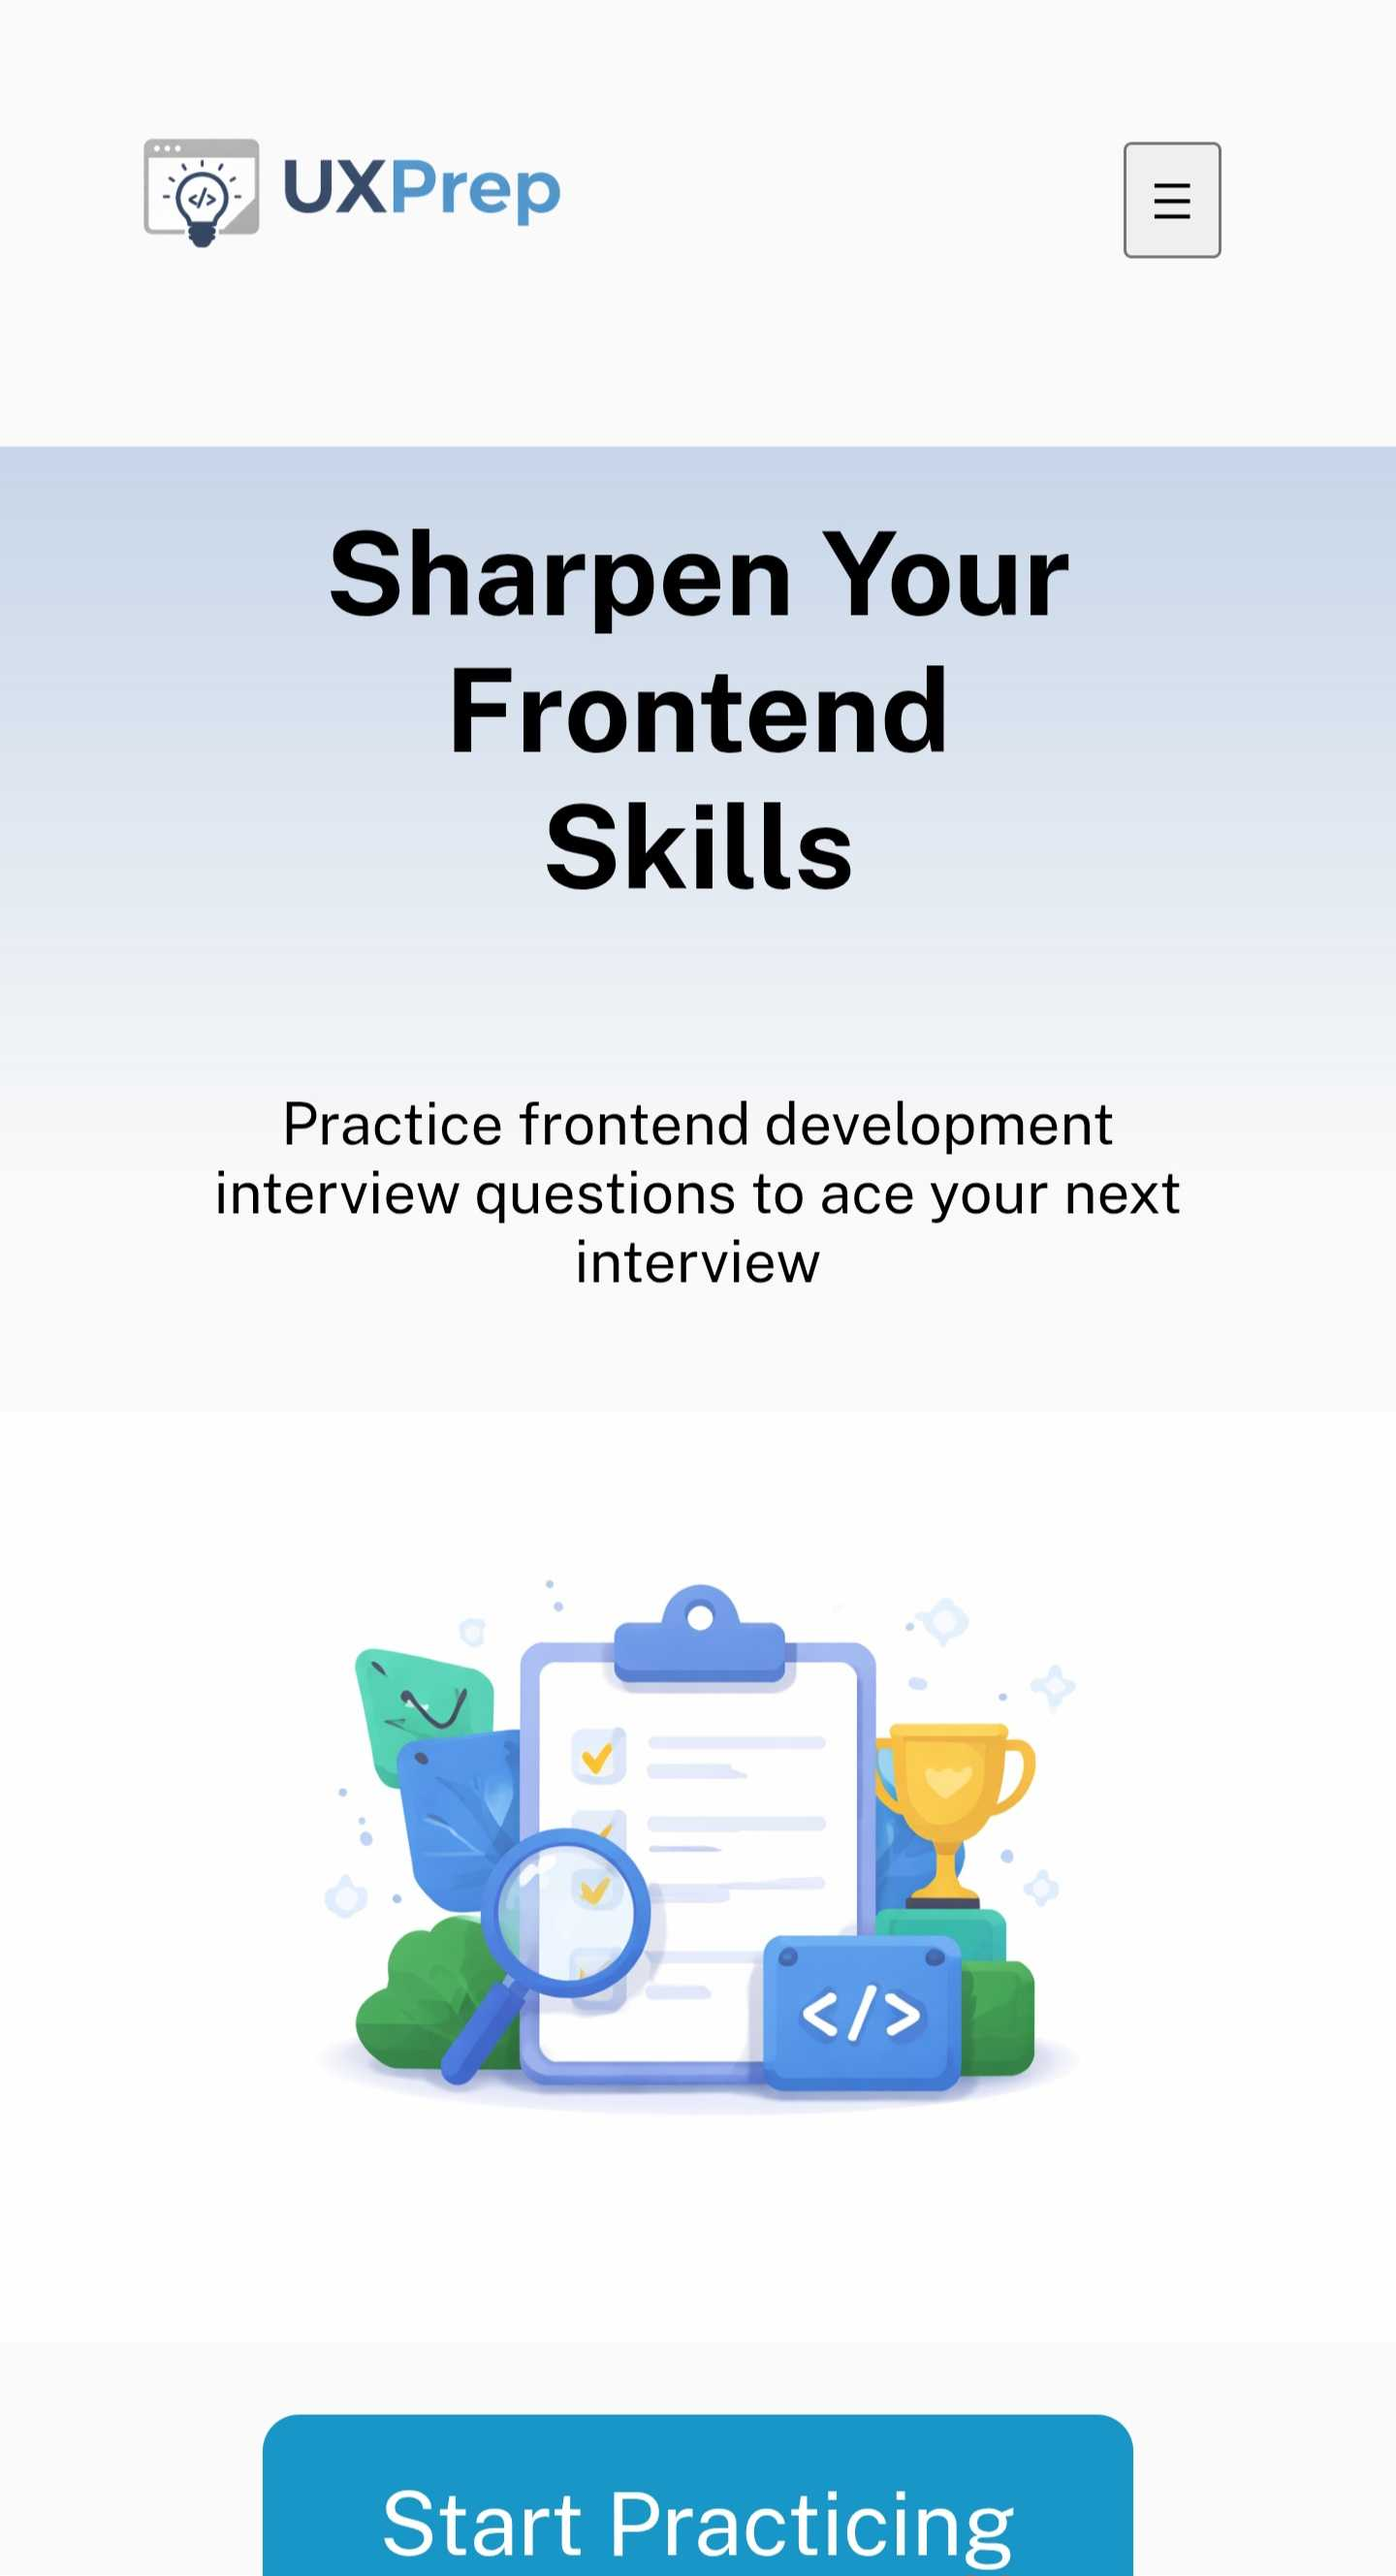
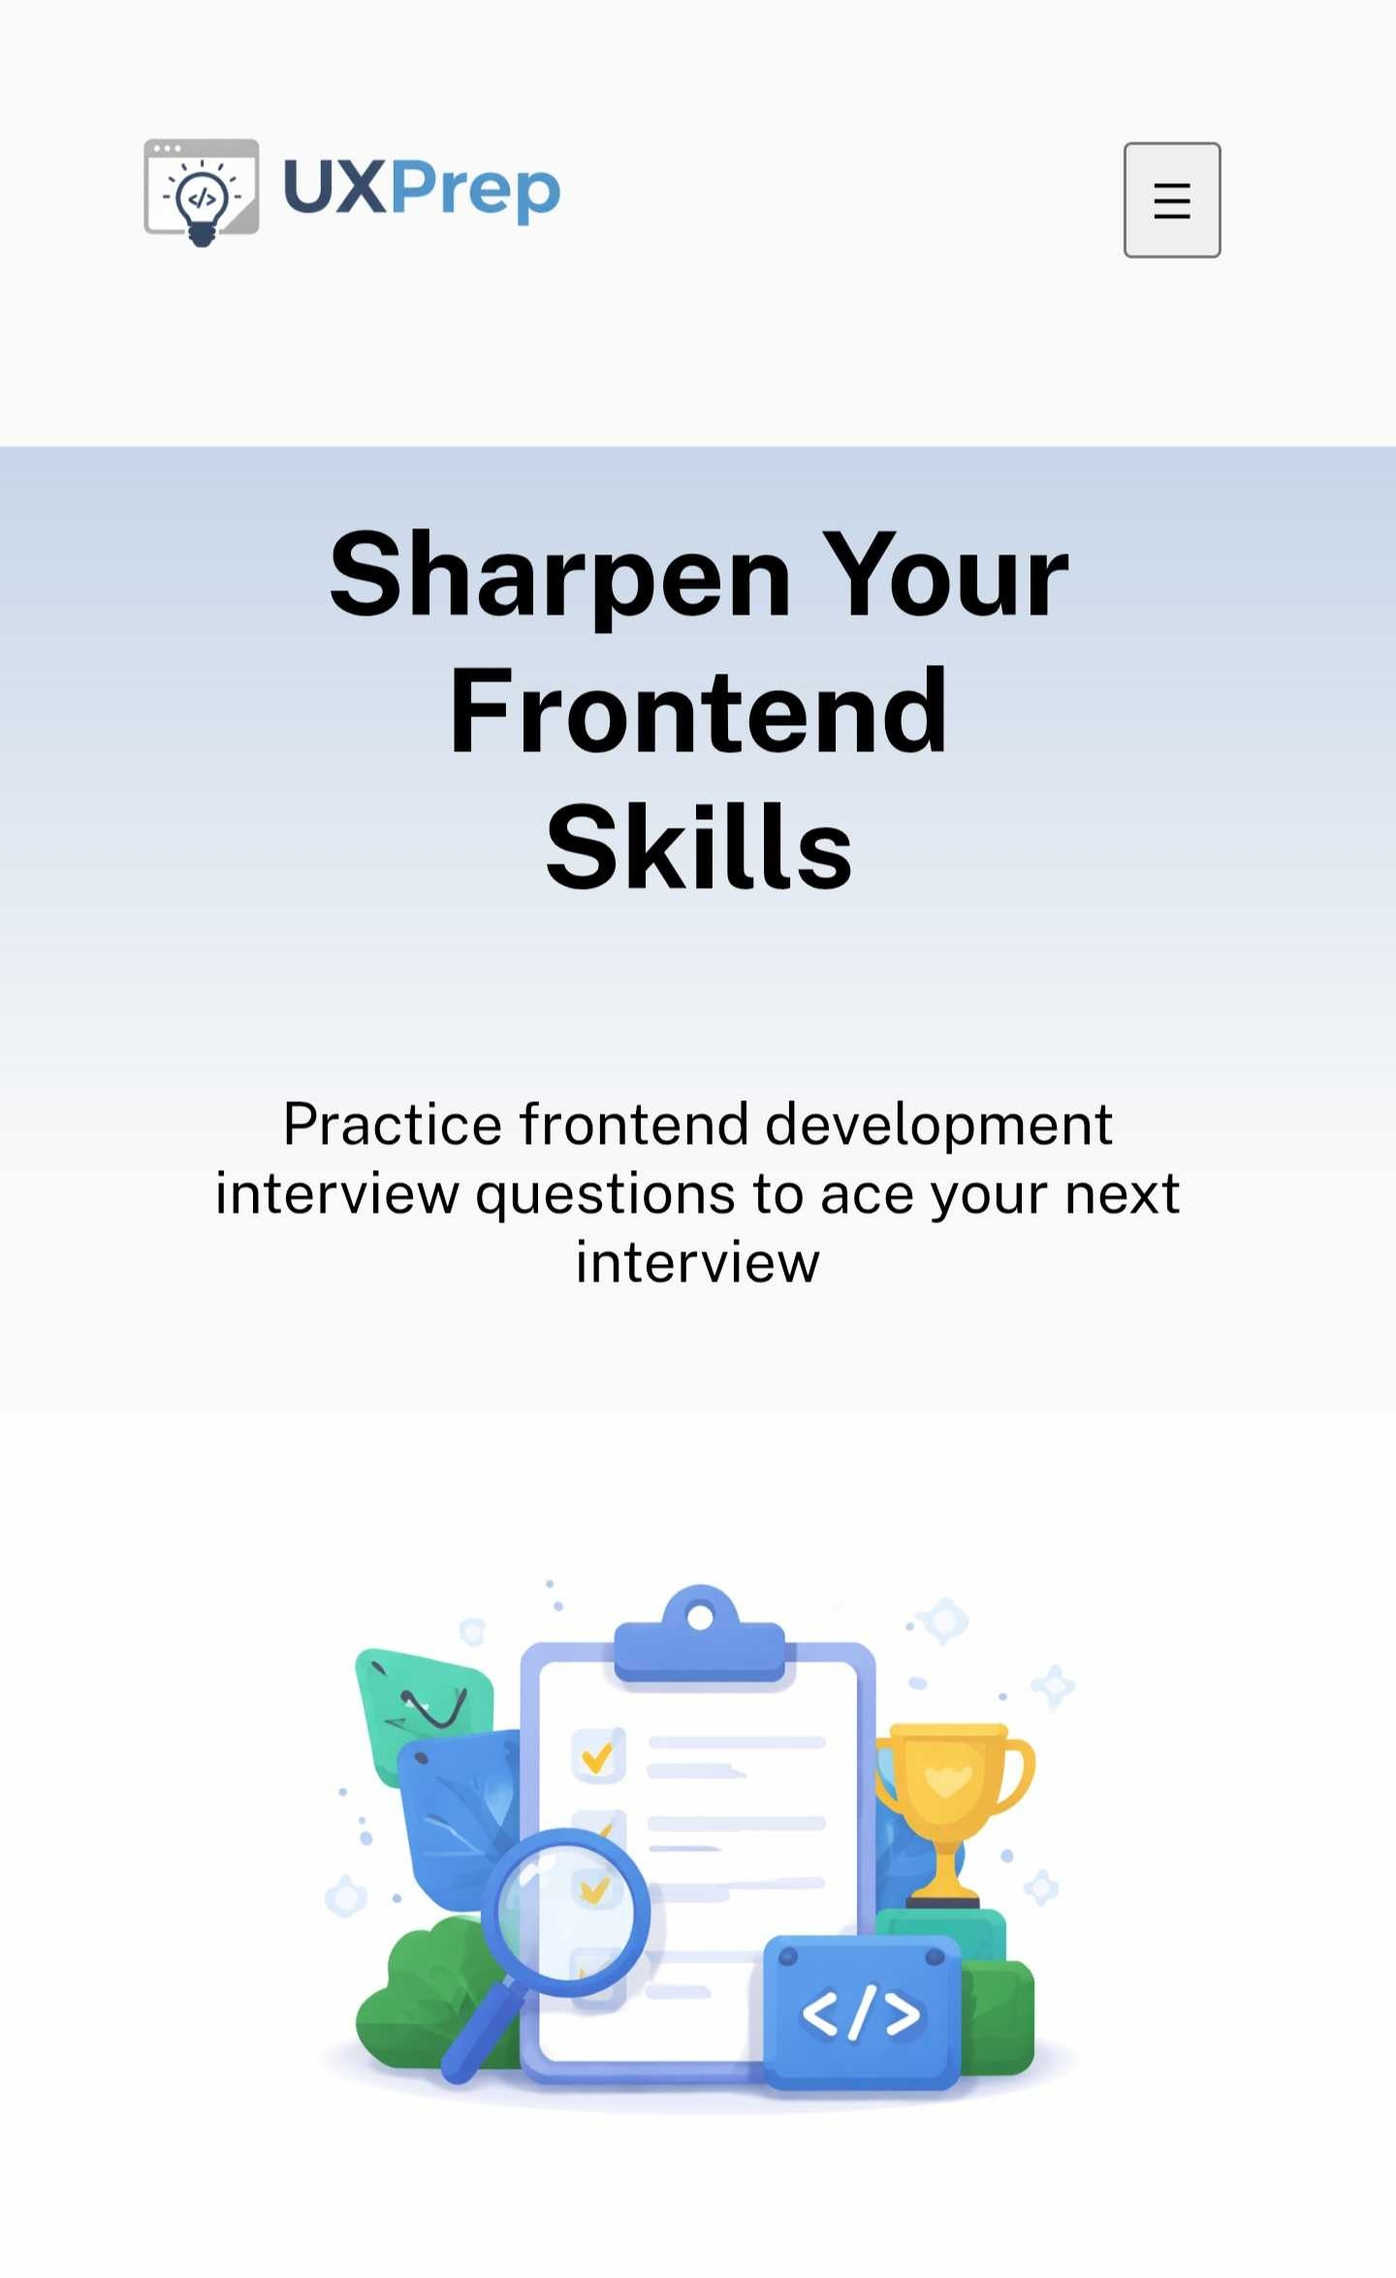
Adjusted some css font sizes and border issues

diff --git a/index.html b/index.html
@@ -20,7 +20,7 @@
                     <ul class="navbar-nav ms-auto text-dark text-center">
                         <li class="nav-item mobile-dropdown-border-item"><a class="nav-link link-dark py-3" href="#skills">Skills</a></li>
                         <li class="nav-item mobile-dropdown-border-item"><a class="nav-link link-dark py-3" href="#projects">Projects</a></li>
-                        <li class="nav-item mobile-dropdown-border-item"><a class="nav-link link-dark py-3" href="#contact">Contact</a></li>
+                        <li class="nav-item "><a class="nav-link link-dark py-3" href="#contact">Contact</a></li>
                     </ul>
                 </div>
             </div>

diff --git a/style.css b/style.css
@@ -1,23 +1,16 @@
 body {
     font-family: sans-serif;
-    font-size: 14px;
+    font-size: 20px;
 }
 
 h4 {
-    font-size: 28px;
+    font-size: 30px;
 }
 
 @media (min-width: 992px) {
     body {
         font-size: 20px;
     }
-    h4 {
-        font-size: 30px;
-    }
-}
-
-.dropdown-bordered-items {
-    border-bottom: 2px solid rgba(0, 0, 0, 0.1);
 }
 
 .navbar {
@@ -92,7 +85,7 @@ h4 {
 
 @media (max-width: 992px) {
     .mobile-dropdown-border-item {
-        border-top: 2px solid rgba(0, 0, 0, 0.05);
+        border-bottom: 2px solid rgba(0, 0, 0, 0.05);
     }
 }
 
